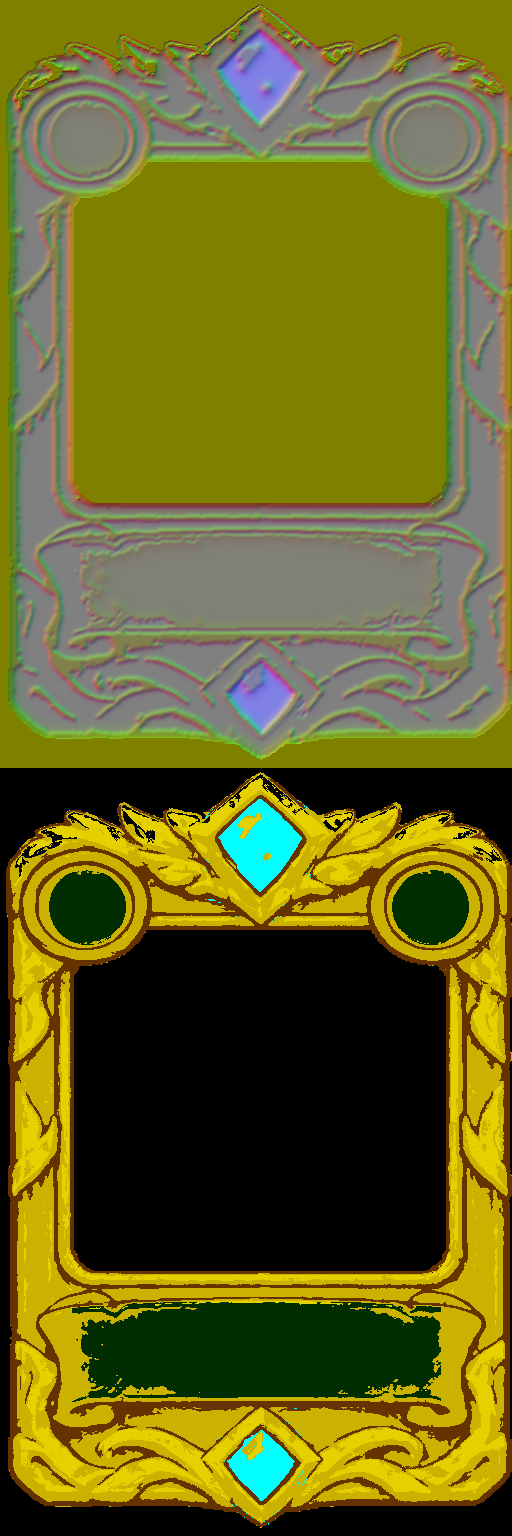
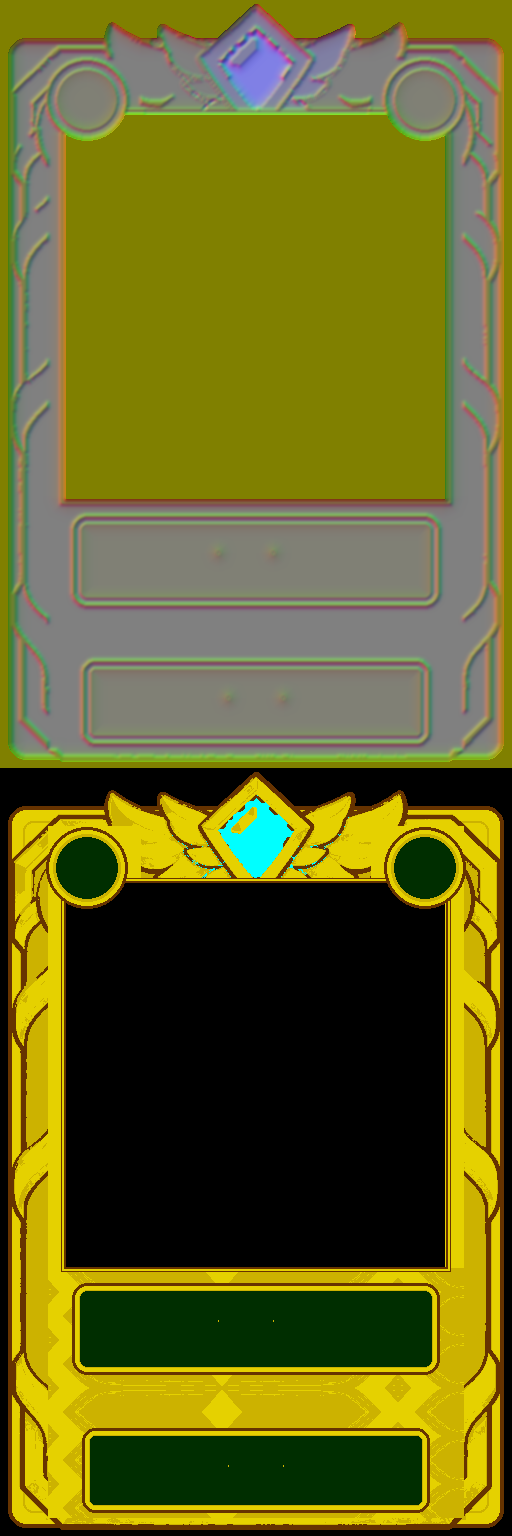
共通枠を組み込み凹凸マップと検証画像を更新する

diff --git a/js/ui/precache.js b/js/ui/precache.js
@@ -1,2 +1,2 @@
-self.CF_CACHE_VERSION="64f714ec397dd5cb";
-self.CF_ASSETS=["index.html","manifest.webmanifest","css/accessibility.css","css/battle.css","css/beast.css","css/card-base.css","css/card-zoom.css","css/chat.css","css/components.css","css/deck.css","css/experience.css","css/finishing-art.css","css/fit.css","css/help-guide.css","css/hologram.css","css/kingdom.css","css/layout.css","css/mana-growth.css","css/materials.css","css/motion.css","css/mp.css","css/polish.css","css/rarity-assets.css","css/rarity-fx.css","css/settings.css","css/step5.css","css/style.css","css/text-fit.css","css/theme.css","css/tokens.css","css/tutorial.css","css/weather.css","js/game/Card.js","js/game/Castle.js","js/game/Game.js","js/game/Monster.js","js/game/Player.js","js/game/Road.js","js/game/Setup.js","js/game/Soldier.js","js/game/Weather.js","js/game/strategies.js","js/game/visibility.js","js/main.js","js/ui/Accessibility.js","js/ui/Animations.js","js/ui/BattleLayout.js","js/ui/CardGuide.js","js/ui/CardInfo.js","js/ui/CardRelief.js","js/ui/CardZoom.js","js/ui/ChatView.js","js/ui/DebugPanel.js","js/ui/DeckEditor.js","js/ui/DeckPreview.js","js/ui/DeckStore.js","js/ui/HandView.js","js/ui/HelpView.js","js/ui/Hologram.js","js/ui/LocalSetup.js","js/ui/MatchStats.js","js/ui/MaterialSkin.js","js/ui/Music.js","js/ui/OnlineClient.js","js/ui/ProgressPanel.js","js/ui/Renderer.js","js/ui/RoomView.js","js/ui/Session.js","js/ui/Settings.js","js/ui/Sound.js","js/ui/Targeting.js","js/ui/Tutorial.js","js/ui/UpgradePanel.js","js/ui/WeatherView.js","js/ui/art.js","js/ui/cardFrame.js","js/ui/cardView.js","js/ui/config.js","js/ui/handOrder.js","js/ui/look.js","js/ui/motion.js","js/ui/pills.js","js/ui/rarity.js","js/ui/stories.js","js/ui/syncCheck.js","js/ui/text.js","data/cards.json","data/castles.json","data/decks.json","data/monsters.json","data/rarities.json","data/rules.json","data/stamps.json","data/upgrades.json","data/weather.json","assets/asset-manifest.json","assets/bg/board-meadow-compact.png","assets/bg/board-meadow.png","assets/bg/board.png","assets/bg/kingdom-meadow.png","assets/bg/kingdom-valley.png","assets/bg/title-compact.png","assets/bg/title.png","assets/cards/card-absolute-zero.png","assets/cards/card-adapt.png","assets/cards/card-apocalypse.png","assets/cards/card-apprentice-archer.png","assets/cards/card-apprentice-mage.png","assets/cards/card-archer.png","assets/cards/card-archmage.png","assets/cards/card-barrier.png","assets/cards/card-beast-bat.png","assets/cards/card-beast-demon-king.png","assets/cards/card-beast-demon.png","assets/cards/card-beast-dragon.png","assets/cards/card-beast-ghost.png","assets/cards/card-beast-goblin.png","assets/cards/card-beast-golem.png","assets/cards/card-beast-mimic.png","assets/cards/card-beast-skeleton.png","assets/cards/card-beast-slime.png","assets/cards/card-beast-treant.png","assets/cards/card-beast-vampire.png","assets/cards/card-big-shield.png","assets/cards/card-big-thunder.png","assets/cards/card-blessing.png","assets/cards/card-bolt.png","assets/cards/card-cavalry.png","assets/cards/card-coin-pouch.png","assets/cards/card-death-mist.png","assets/cards/card-decoy.png","assets/cards/card-deep-freeze.png","assets/cards/card-dragon-knight.png","assets/cards/card-earth-hammer.png","assets/cards/card-earth-king.png","assets/cards/card-earth-spirit.png","assets/cards/card-fire-king.png","assets/cards/card-fire-spirit.png","assets/cards/card-fireball.png","assets/cards/card-flame-sword.png","assets/cards/card-frost-breath.png","assets/cards/card-frozen-world.png","assets/cards/card-gate.png","assets/cards/card-giant.png","assets/cards/card-glacier.png","assets/cards/card-god-shield.png","assets/cards/card-god-sword.png","assets/cards/card-goddess.png","assets/cards/card-gold-coin.png","assets/cards/card-gold-vein.png","assets/cards/card-great-earth-spirit.png","assets/cards/card-great-fire-spirit.png","assets/cards/card-great-heal.png","assets/cards/card-great-water-spirit.png","assets/cards/card-great-wind-spirit.png","assets/cards/card-heal.png","assets/cards/card-heavy.png","assets/cards/card-hero.png","assets/cards/card-holy-light.png","assets/cards/card-holy-shield.png","assets/cards/card-holy-sword.png","assets/cards/card-infantry.png","assets/cards/card-inferno.png","assets/cards/card-iron-sword.png","assets/cards/card-judgment.png","assets/cards/card-king-treasure.png","assets/cards/card-knight.png","assets/cards/card-longbowman.png","assets/cards/card-mage.png","assets/cards/card-magic-sword.png","assets/cards/card-mana-crystal.png","assets/cards/card-mana-drop.png","assets/cards/card-mana-shard.png","assets/cards/card-mana-spring.png","assets/cards/card-meteor.png","assets/cards/card-minor-heal.png","assets/cards/card-paladin.png","assets/cards/card-plague.png","assets/cards/card-poison-mist.png","assets/cards/card-prayer.png","assets/cards/card-raijin.png","assets/cards/card-reflect.png","assets/cards/card-sage.png","assets/cards/card-sandbag.png","assets/cards/card-scout.png","assets/cards/card-shield.png","assets/cards/card-sky-archer.png","assets/cards/card-sniper.png","assets/cards/card-sorcerer.png","assets/cards/card-spearman.png","assets/cards/card-starfall.png","assets/cards/card-steel-shield.png","assets/cards/card-stone-wall.png","assets/cards/card-thief.png","assets/cards/card-thunder.png","assets/cards/card-toxic-rain.png","assets/cards/card-treasure.png","assets/cards/card-venom.png","assets/cards/card-wall.png","assets/cards/card-water-king.png","assets/cards/card-water-spear.png","assets/cards/card-water-spirit.png","assets/cards/card-weather-call.png","assets/cards/card-wind-bow.png","assets/cards/card-wind-king.png","assets/cards/card-wind-spirit.png","assets/cards/card-world-tree-dew.png","assets/cards/frame-beast.png","assets/cards/frame-common.png","assets/cards/frame-defense.png","assets/cards/frame-epic.png","assets/cards/frame-legendary.png","assets/cards/frame-rare.png","assets/cards/frame-soldier.png","assets/cards/frame-special.png","assets/cards/frame-spell.png","assets/cards/frame-uncommon.png","assets/cards/frame-weapon.png","assets/cards/relief/frame-beast-raised.png","assets/cards/relief/frame-beast-relief.png","assets/cards/relief/frame-common-raised.png","assets/cards/relief/frame-common-relief.png","assets/cards/relief/frame-defense-raised.png","assets/cards/relief/frame-defense-relief.png","assets/cards/relief/frame-epic-raised.png","assets/cards/relief/frame-epic-relief.png","assets/cards/relief/frame-legendary-raised.png","assets/cards/relief/frame-legendary-relief.png","assets/cards/relief/frame-rare-raised.png","assets/cards/relief/frame-rare-relief.png","assets/cards/relief/frame-soldier-raised.png","assets/cards/relief/frame-soldier-relief.png","assets/cards/relief/frame-special-raised.png","assets/cards/relief/frame-special-relief.png","assets/cards/relief/frame-spell-raised.png","assets/cards/relief/frame-spell-relief.png","assets/cards/relief/frame-uncommon-raised.png","assets/cards/relief/frame-uncommon-relief.png","assets/cards/relief/frame-weapon-raised.png","assets/cards/relief/frame-weapon-relief.png","assets/castles/barracks-blue-damaged-1.png","assets/castles/barracks-blue-damaged-2.png","assets/castles/barracks-blue-damaged-3.png","assets/castles/barracks-blue.png","assets/castles/barracks-orange-damaged-1.png","assets/castles/barracks-orange-damaged-2.png","assets/castles/barracks-orange-damaged-3.png","assets/castles/barracks-orange.png","assets/castles/castle-blue-damaged-1.png","assets/castles/castle-blue-damaged-2.png","assets/castles/castle-blue-damaged-3.png","assets/castles/castle-blue-ruined.png","assets/castles/castle-blue.png","assets/castles/castle-orange-damaged-1.png","assets/castles/castle-orange-damaged-2.png","assets/castles/castle-orange-damaged-3.png","assets/castles/castle-orange-ruined.png","assets/castles/castle-orange.png","assets/castles/fortress-blue-damaged-1.png","assets/castles/fortress-blue-damaged-2.png","assets/castles/fortress-blue-damaged-3.png","assets/castles/fortress-blue.png","assets/castles/fortress-orange-damaged-1.png","assets/castles/fortress-orange-damaged-2.png","assets/castles/fortress-orange-damaged-3.png","assets/castles/fortress-orange.png","assets/castles/tower-blue-damaged-1.png","assets/castles/tower-blue-damaged-2.png","assets/castles/tower-blue-damaged-3.png","assets/castles/tower-blue.png","assets/castles/tower-orange-damaged-1.png","assets/castles/tower-orange-damaged-2.png","assets/castles/tower-orange-damaged-3.png","assets/castles/tower-orange.png","assets/fx/dust.png","assets/fx/evolve-1.png","assets/fx/evolve-2.png","assets/fx/evolve-3.png","assets/fx/explosion.png","assets/fx/fireball.png","assets/fx/fusion.png","assets/fx/heal.png","assets/fx/ice.png","assets/fx/lightning.png","assets/fx/lucky-reward.png","assets/fx/poison.png","assets/ui/app-icon-192.png","assets/ui/app-icon-512.png","assets/ui/app-icon-maskable-512.png","assets/ui/apple-touch-icon.png","assets/ui/banner-win.png","assets/ui/btn-blue.png","assets/ui/btn-cream.png","assets/ui/btn-green.png","assets/ui/btn-orange.png","assets/ui/btn-red.png","assets/ui/btn-round.png","assets/ui/button-end-turn.png","assets/ui/card-back.png","assets/ui/icon-coin.png","assets/ui/icon-earth.png","assets/ui/icon-fire.png","assets/ui/icon-heart.png","assets/ui/icon-help.png","assets/ui/icon-kind-defense.png","assets/ui/icon-kind-soldier.png","assets/ui/icon-kind-spell.png","assets/ui/icon-kind-weapon.png","assets/ui/icon-kind-wild.png","assets/ui/icon-luck.png","assets/ui/icon-mode-local.png","assets/ui/icon-mode-online.png","assets/ui/icon-mode-solo.png","assets/ui/icon-mp.png","assets/ui/icon-rarity-common.png","assets/ui/icon-rarity-epic.png","assets/ui/icon-rarity-legendary.png","assets/ui/icon-rarity-rare.png","assets/ui/icon-rarity-special.png","assets/ui/icon-rarity-uncommon.png","assets/ui/icon-water.png","assets/ui/icon-wind.png","assets/ui/kingdom-crest.png","assets/ui/kingdom-parchment.png","assets/ui/kingdom-platform.png","assets/ui/kingdom-primary.png","assets/ui/kingdom-secondary.png","assets/ui/kingdom-wood.png","assets/ui/logo.png","assets/ui/natural/danger-40-left.png","assets/ui/natural/danger-40-middle.png","assets/ui/natural/danger-40-right.png","assets/ui/natural/danger-44-left.png","assets/ui/natural/danger-44-middle.png","assets/ui/natural/danger-44-right.png","assets/ui/natural/danger-72-left.png","assets/ui/natural/danger-72-middle.png","assets/ui/natural/danger-72-right.png","assets/ui/natural/frame.png","assets/ui/natural/leather-tile.png","assets/ui/natural/neutral-40-left.png","assets/ui/natural/neutral-40-middle.png","assets/ui/natural/neutral-40-right.png","assets/ui/natural/neutral-44-left.png","assets/ui/natural/neutral-44-middle.png","assets/ui/natural/neutral-44-right.png","assets/ui/natural/neutral-72-left.png","assets/ui/natural/neutral-72-middle.png","assets/ui/natural/neutral-72-right.png","assets/ui/natural/neutral-wide-full.png","assets/ui/natural/oak-tile.png","assets/ui/natural/paper-tile.png","assets/ui/natural/primary-40-left.png","assets/ui/natural/primary-40-middle.png","assets/ui/natural/primary-40-right.png","assets/ui/natural/primary-44-left.png","assets/ui/natural/primary-44-middle.png","assets/ui/natural/primary-44-right.png","assets/ui/natural/primary-72-left.png","assets/ui/natural/primary-72-middle.png","assets/ui/natural/primary-72-right.png","assets/ui/natural/primary-wide-full.png","assets/ui/natural/round-neutral.png","assets/ui/natural/round-selected.png","assets/ui/natural/selected-40-left.png","assets/ui/natural/selected-40-middle.png","assets/ui/natural/selected-40-right.png","assets/ui/natural/selected-44-left.png","assets/ui/natural/selected-44-middle.png","assets/ui/natural/selected-44-right.png","assets/ui/natural/selected-72-left.png","assets/ui/natural/selected-72-middle.png","assets/ui/natural/selected-72-right.png","assets/ui/panel-parchment.png","assets/ui/result-defeat.png","assets/ui/result-victory.png","assets/ui/sign-hp.png","assets/ui/stamps/again.png","assets/ui/stamps/gg.png","assets/ui/stamps/go.png","assets/ui/stamps/hello.png","assets/ui/stamps/nice.png","assets/ui/stamps/ouch.png","assets/ui/stamps/scared.png","assets/ui/stamps/smug.png","assets/ui/stamps/sorry.png","assets/ui/stamps/thanks.png","assets/ui/stamps/think.png","assets/ui/stamps/yay.png","assets/ui/tap-plate.png","assets/ui/title-castle-blue.png","assets/ui/title-castle-orange.png","assets/ui/title-infantry-orange.png","assets/ui/title-knight-blue.png","assets/ui/weather-coin-rain.png","assets/ui/weather-fog.png","assets/ui/weather-heavy-rain.png","assets/ui/weather-rain.png","assets/ui/weather-sandstorm.png","assets/ui/weather-storm.png","assets/ui/weather-sunny.png","assets/units/apprentice-archer-blue.png","assets/units/apprentice-archer-orange.png","assets/units/apprentice-mage-blue.png","assets/units/apprentice-mage-orange.png","assets/units/archer-blue.png","assets/units/archer-orange.png","assets/units/archmage-blue.png","assets/units/archmage-orange.png","assets/units/cavalry-blue.png","assets/units/cavalry-orange.png","assets/units/dragon-knight-blue.png","assets/units/dragon-knight-orange.png","assets/units/earth-spirit.png","assets/units/fire-spirit.png","assets/units/giant-blue.png","assets/units/giant-orange.png","assets/units/great-earth-spirit.png","assets/units/great-fire-spirit.png","assets/units/great-water-spirit.png","assets/units/great-wind-spirit.png","assets/units/heavy-blue.png","assets/units/heavy-orange.png","assets/units/hero-blue.png","assets/units/hero-orange.png","assets/units/infantry-blue.png","assets/units/infantry-orange.png","assets/units/knight-blue.png","assets/units/knight-orange.png","assets/units/longbowman-blue.png","assets/units/longbowman-orange.png","assets/units/mage-blue.png","assets/units/mage-orange.png","assets/units/monster-bat.png","assets/units/monster-demon-king.png","assets/units/monster-demon.png","assets/units/monster-dragon.png","assets/units/monster-ghost.png","assets/units/monster-goblin.png","assets/units/monster-golem.png","assets/units/monster-mimic.png","assets/units/monster-skeleton.png","assets/units/monster-slime.png","assets/units/monster-treant.png","assets/units/monster-vampire.png","assets/units/paladin-blue.png","assets/units/paladin-orange.png","assets/units/sage-blue.png","assets/units/sage-orange.png","assets/units/scout-blue.png","assets/units/scout-orange.png","assets/units/sky-archer-blue.png","assets/units/sky-archer-orange.png","assets/units/sniper-blue.png","assets/units/sniper-orange.png","assets/units/sorcerer-blue.png","assets/units/sorcerer-orange.png","assets/units/spearman-blue.png","assets/units/spearman-orange.png","assets/units/water-spirit.png","assets/units/wind-spirit.png"];
+self.CF_CACHE_VERSION="638c4e12b4f41cc6";
+self.CF_ASSETS=["index.html","manifest.webmanifest","css/accessibility.css","css/battle.css","css/beast.css","css/card-base.css","css/card-zoom.css","css/chat.css","css/components.css","css/deck.css","css/experience.css","css/finishing-art.css","css/fit.css","css/help-guide.css","css/hologram.css","css/kingdom.css","css/layout.css","css/mana-growth.css","css/materials.css","css/motion.css","css/mp.css","css/polish.css","css/rarity-assets.css","css/rarity-fx.css","css/settings.css","css/step5.css","css/style.css","css/text-fit.css","css/theme.css","css/tokens.css","css/tutorial.css","css/weather.css","js/game/Card.js","js/game/Castle.js","js/game/Game.js","js/game/Monster.js","js/game/Player.js","js/game/Road.js","js/game/Setup.js","js/game/Soldier.js","js/game/Weather.js","js/game/strategies.js","js/game/visibility.js","js/main.js","js/ui/Accessibility.js","js/ui/Animations.js","js/ui/BattleLayout.js","js/ui/CardGuide.js","js/ui/CardInfo.js","js/ui/CardRelief.js","js/ui/CardZoom.js","js/ui/ChatView.js","js/ui/DebugPanel.js","js/ui/DeckEditor.js","js/ui/DeckPreview.js","js/ui/DeckStore.js","js/ui/HandView.js","js/ui/HelpView.js","js/ui/Hologram.js","js/ui/LocalSetup.js","js/ui/MatchStats.js","js/ui/MaterialSkin.js","js/ui/Music.js","js/ui/OnlineClient.js","js/ui/ProgressPanel.js","js/ui/Renderer.js","js/ui/RoomView.js","js/ui/Session.js","js/ui/Settings.js","js/ui/Sound.js","js/ui/Targeting.js","js/ui/Tutorial.js","js/ui/UpgradePanel.js","js/ui/WeatherView.js","js/ui/art.js","js/ui/cardFrame.js","js/ui/cardView.js","js/ui/config.js","js/ui/handOrder.js","js/ui/look.js","js/ui/motion.js","js/ui/pills.js","js/ui/rarity.js","js/ui/stories.js","js/ui/syncCheck.js","js/ui/text.js","data/cards.json","data/castles.json","data/decks.json","data/monsters.json","data/rarities.json","data/rules.json","data/stamps.json","data/upgrades.json","data/weather.json","assets/asset-manifest.json","assets/bg/board-meadow-compact.png","assets/bg/board-meadow.png","assets/bg/board.png","assets/bg/kingdom-meadow.png","assets/bg/kingdom-valley.png","assets/bg/title-compact.png","assets/bg/title.png","assets/cards/card-absolute-zero.png","assets/cards/card-adapt.png","assets/cards/card-apocalypse.png","assets/cards/card-apprentice-archer.png","assets/cards/card-apprentice-mage.png","assets/cards/card-archer.png","assets/cards/card-archmage.png","assets/cards/card-barrier.png","assets/cards/card-beast-bat.png","assets/cards/card-beast-demon-king.png","assets/cards/card-beast-demon.png","assets/cards/card-beast-dragon.png","assets/cards/card-beast-ghost.png","assets/cards/card-beast-goblin.png","assets/cards/card-beast-golem.png","assets/cards/card-beast-mimic.png","assets/cards/card-beast-skeleton.png","assets/cards/card-beast-slime.png","assets/cards/card-beast-treant.png","assets/cards/card-beast-vampire.png","assets/cards/card-big-shield.png","assets/cards/card-big-thunder.png","assets/cards/card-blessing.png","assets/cards/card-bolt.png","assets/cards/card-cavalry.png","assets/cards/card-coin-pouch.png","assets/cards/card-death-mist.png","assets/cards/card-decoy.png","assets/cards/card-deep-freeze.png","assets/cards/card-dragon-knight.png","assets/cards/card-earth-hammer.png","assets/cards/card-earth-king.png","assets/cards/card-earth-spirit.png","assets/cards/card-fire-king.png","assets/cards/card-fire-spirit.png","assets/cards/card-fireball.png","assets/cards/card-flame-sword.png","assets/cards/card-frost-breath.png","assets/cards/card-frozen-world.png","assets/cards/card-gate.png","assets/cards/card-giant.png","assets/cards/card-glacier.png","assets/cards/card-god-shield.png","assets/cards/card-god-sword.png","assets/cards/card-goddess.png","assets/cards/card-gold-coin.png","assets/cards/card-gold-vein.png","assets/cards/card-great-earth-spirit.png","assets/cards/card-great-fire-spirit.png","assets/cards/card-great-heal.png","assets/cards/card-great-water-spirit.png","assets/cards/card-great-wind-spirit.png","assets/cards/card-heal.png","assets/cards/card-heavy.png","assets/cards/card-hero.png","assets/cards/card-holy-light.png","assets/cards/card-holy-shield.png","assets/cards/card-holy-sword.png","assets/cards/card-infantry.png","assets/cards/card-inferno.png","assets/cards/card-iron-sword.png","assets/cards/card-judgment.png","assets/cards/card-king-treasure.png","assets/cards/card-knight.png","assets/cards/card-longbowman.png","assets/cards/card-mage.png","assets/cards/card-magic-sword.png","assets/cards/card-mana-crystal.png","assets/cards/card-mana-drop.png","assets/cards/card-mana-shard.png","assets/cards/card-mana-spring.png","assets/cards/card-meteor.png","assets/cards/card-minor-heal.png","assets/cards/card-paladin.png","assets/cards/card-plague.png","assets/cards/card-poison-mist.png","assets/cards/card-prayer.png","assets/cards/card-raijin.png","assets/cards/card-reflect.png","assets/cards/card-sage.png","assets/cards/card-sandbag.png","assets/cards/card-scout.png","assets/cards/card-shield.png","assets/cards/card-sky-archer.png","assets/cards/card-sniper.png","assets/cards/card-sorcerer.png","assets/cards/card-spearman.png","assets/cards/card-starfall.png","assets/cards/card-steel-shield.png","assets/cards/card-stone-wall.png","assets/cards/card-thief.png","assets/cards/card-thunder.png","assets/cards/card-toxic-rain.png","assets/cards/card-treasure.png","assets/cards/card-venom.png","assets/cards/card-wall.png","assets/cards/card-water-king.png","assets/cards/card-water-spear.png","assets/cards/card-water-spirit.png","assets/cards/card-weather-call.png","assets/cards/card-wind-bow.png","assets/cards/card-wind-king.png","assets/cards/card-wind-spirit.png","assets/cards/card-world-tree-dew.png","assets/cards/frame-beast.png","assets/cards/frame-common.png","assets/cards/frame-defense.png","assets/cards/frame-epic.png","assets/cards/frame-legendary.png","assets/cards/frame-rare.png","assets/cards/frame-soldier.png","assets/cards/frame-special.png","assets/cards/frame-spell.png","assets/cards/frame-uncommon.png","assets/cards/frame-weapon.png","assets/cards/relief/frame-beast-raised.png","assets/cards/relief/frame-beast-relief.png","assets/cards/relief/frame-common-raised.png","assets/cards/relief/frame-common-relief.png","assets/cards/relief/frame-defense-raised.png","assets/cards/relief/frame-defense-relief.png","assets/cards/relief/frame-epic-raised.png","assets/cards/relief/frame-epic-relief.png","assets/cards/relief/frame-legendary-raised.png","assets/cards/relief/frame-legendary-relief.png","assets/cards/relief/frame-rare-raised.png","assets/cards/relief/frame-rare-relief.png","assets/cards/relief/frame-soldier-raised.png","assets/cards/relief/frame-soldier-relief.png","assets/cards/relief/frame-special-raised.png","assets/cards/relief/frame-special-relief.png","assets/cards/relief/frame-spell-raised.png","assets/cards/relief/frame-spell-relief.png","assets/cards/relief/frame-uncommon-raised.png","assets/cards/relief/frame-uncommon-relief.png","assets/cards/relief/frame-weapon-raised.png","assets/cards/relief/frame-weapon-relief.png","assets/cards/window-beast.png","assets/cards/window-common.png","assets/cards/window-epic.png","assets/cards/window-legendary.png","assets/cards/window-rare.png","assets/cards/window-special.png","assets/cards/window-uncommon.png","assets/castles/barracks-blue-damaged-1.png","assets/castles/barracks-blue-damaged-2.png","assets/castles/barracks-blue-damaged-3.png","assets/castles/barracks-blue.png","assets/castles/barracks-orange-damaged-1.png","assets/castles/barracks-orange-damaged-2.png","assets/castles/barracks-orange-damaged-3.png","assets/castles/barracks-orange.png","assets/castles/castle-blue-damaged-1.png","assets/castles/castle-blue-damaged-2.png","assets/castles/castle-blue-damaged-3.png","assets/castles/castle-blue-ruined.png","assets/castles/castle-blue.png","assets/castles/castle-orange-damaged-1.png","assets/castles/castle-orange-damaged-2.png","assets/castles/castle-orange-damaged-3.png","assets/castles/castle-orange-ruined.png","assets/castles/castle-orange.png","assets/castles/fortress-blue-damaged-1.png","assets/castles/fortress-blue-damaged-2.png","assets/castles/fortress-blue-damaged-3.png","assets/castles/fortress-blue.png","assets/castles/fortress-orange-damaged-1.png","assets/castles/fortress-orange-damaged-2.png","assets/castles/fortress-orange-damaged-3.png","assets/castles/fortress-orange.png","assets/castles/tower-blue-damaged-1.png","assets/castles/tower-blue-damaged-2.png","assets/castles/tower-blue-damaged-3.png","assets/castles/tower-blue.png","assets/castles/tower-orange-damaged-1.png","assets/castles/tower-orange-damaged-2.png","assets/castles/tower-orange-damaged-3.png","assets/castles/tower-orange.png","assets/fx/dust.png","assets/fx/evolve-1.png","assets/fx/evolve-2.png","assets/fx/evolve-3.png","assets/fx/explosion.png","assets/fx/fireball.png","assets/fx/fusion.png","assets/fx/heal.png","assets/fx/ice.png","assets/fx/lightning.png","assets/fx/lucky-reward.png","assets/fx/poison.png","assets/ui/app-icon-192.png","assets/ui/app-icon-512.png","assets/ui/app-icon-maskable-512.png","assets/ui/apple-touch-icon.png","assets/ui/banner-win.png","assets/ui/btn-blue.png","assets/ui/btn-cream.png","assets/ui/btn-green.png","assets/ui/btn-orange.png","assets/ui/btn-red.png","assets/ui/btn-round.png","assets/ui/button-end-turn.png","assets/ui/card-back.png","assets/ui/icon-coin.png","assets/ui/icon-earth.png","assets/ui/icon-fire.png","assets/ui/icon-heart.png","assets/ui/icon-help.png","assets/ui/icon-kind-defense.png","assets/ui/icon-kind-soldier.png","assets/ui/icon-kind-spell.png","assets/ui/icon-kind-weapon.png","assets/ui/icon-kind-wild.png","assets/ui/icon-luck.png","assets/ui/icon-mode-local.png","assets/ui/icon-mode-online.png","assets/ui/icon-mode-solo.png","assets/ui/icon-mp.png","assets/ui/icon-rarity-common.png","assets/ui/icon-rarity-epic.png","assets/ui/icon-rarity-legendary.png","assets/ui/icon-rarity-rare.png","assets/ui/icon-rarity-special.png","assets/ui/icon-rarity-uncommon.png","assets/ui/icon-water.png","assets/ui/icon-wind.png","assets/ui/kingdom-crest.png","assets/ui/kingdom-parchment.png","assets/ui/kingdom-platform.png","assets/ui/kingdom-primary.png","assets/ui/kingdom-secondary.png","assets/ui/kingdom-wood.png","assets/ui/logo.png","assets/ui/natural/danger-40-left.png","assets/ui/natural/danger-40-middle.png","assets/ui/natural/danger-40-right.png","assets/ui/natural/danger-44-left.png","assets/ui/natural/danger-44-middle.png","assets/ui/natural/danger-44-right.png","assets/ui/natural/danger-72-left.png","assets/ui/natural/danger-72-middle.png","assets/ui/natural/danger-72-right.png","assets/ui/natural/frame.png","assets/ui/natural/leather-tile.png","assets/ui/natural/neutral-40-left.png","assets/ui/natural/neutral-40-middle.png","assets/ui/natural/neutral-40-right.png","assets/ui/natural/neutral-44-left.png","assets/ui/natural/neutral-44-middle.png","assets/ui/natural/neutral-44-right.png","assets/ui/natural/neutral-72-left.png","assets/ui/natural/neutral-72-middle.png","assets/ui/natural/neutral-72-right.png","assets/ui/natural/neutral-wide-full.png","assets/ui/natural/oak-tile.png","assets/ui/natural/paper-tile.png","assets/ui/natural/primary-40-left.png","assets/ui/natural/primary-40-middle.png","assets/ui/natural/primary-40-right.png","assets/ui/natural/primary-44-left.png","assets/ui/natural/primary-44-middle.png","assets/ui/natural/primary-44-right.png","assets/ui/natural/primary-72-left.png","assets/ui/natural/primary-72-middle.png","assets/ui/natural/primary-72-right.png","assets/ui/natural/primary-wide-full.png","assets/ui/natural/round-neutral.png","assets/ui/natural/round-selected.png","assets/ui/natural/selected-40-left.png","assets/ui/natural/selected-40-middle.png","assets/ui/natural/selected-40-right.png","assets/ui/natural/selected-44-left.png","assets/ui/natural/selected-44-middle.png","assets/ui/natural/selected-44-right.png","assets/ui/natural/selected-72-left.png","assets/ui/natural/selected-72-middle.png","assets/ui/natural/selected-72-right.png","assets/ui/panel-parchment.png","assets/ui/result-defeat.png","assets/ui/result-victory.png","assets/ui/sign-hp.png","assets/ui/stamps/again.png","assets/ui/stamps/gg.png","assets/ui/stamps/go.png","assets/ui/stamps/hello.png","assets/ui/stamps/nice.png","assets/ui/stamps/ouch.png","assets/ui/stamps/scared.png","assets/ui/stamps/smug.png","assets/ui/stamps/sorry.png","assets/ui/stamps/thanks.png","assets/ui/stamps/think.png","assets/ui/stamps/yay.png","assets/ui/tap-plate.png","assets/ui/title-castle-blue.png","assets/ui/title-castle-orange.png","assets/ui/title-infantry-orange.png","assets/ui/title-knight-blue.png","assets/ui/weather-coin-rain.png","assets/ui/weather-fog.png","assets/ui/weather-heavy-rain.png","assets/ui/weather-rain.png","assets/ui/weather-sandstorm.png","assets/ui/weather-storm.png","assets/ui/weather-sunny.png","assets/units/apprentice-archer-blue.png","assets/units/apprentice-archer-orange.png","assets/units/apprentice-mage-blue.png","assets/units/apprentice-mage-orange.png","assets/units/archer-blue.png","assets/units/archer-orange.png","assets/units/archmage-blue.png","assets/units/archmage-orange.png","assets/units/cavalry-blue.png","assets/units/cavalry-orange.png","assets/units/dragon-knight-blue.png","assets/units/dragon-knight-orange.png","assets/units/earth-spirit.png","assets/units/fire-spirit.png","assets/units/giant-blue.png","assets/units/giant-orange.png","assets/units/great-earth-spirit.png","assets/units/great-fire-spirit.png","assets/units/great-water-spirit.png","assets/units/great-wind-spirit.png","assets/units/heavy-blue.png","assets/units/heavy-orange.png","assets/units/hero-blue.png","assets/units/hero-orange.png","assets/units/infantry-blue.png","assets/units/infantry-orange.png","assets/units/knight-blue.png","assets/units/knight-orange.png","assets/units/longbowman-blue.png","assets/units/longbowman-orange.png","assets/units/mage-blue.png","assets/units/mage-orange.png","assets/units/monster-bat.png","assets/units/monster-demon-king.png","assets/units/monster-demon.png","assets/units/monster-dragon.png","assets/units/monster-ghost.png","assets/units/monster-goblin.png","assets/units/monster-golem.png","assets/units/monster-mimic.png","assets/units/monster-skeleton.png","assets/units/monster-slime.png","assets/units/monster-treant.png","assets/units/monster-vampire.png","assets/units/paladin-blue.png","assets/units/paladin-orange.png","assets/units/sage-blue.png","assets/units/sage-orange.png","assets/units/scout-blue.png","assets/units/scout-orange.png","assets/units/sky-archer-blue.png","assets/units/sky-archer-orange.png","assets/units/sniper-blue.png","assets/units/sniper-orange.png","assets/units/sorcerer-blue.png","assets/units/sorcerer-orange.png","assets/units/spearman-blue.png","assets/units/spearman-orange.png","assets/units/water-spirit.png","assets/units/wind-spirit.png"];

diff --git a/js/ui/build-card-relief.js b/js/ui/build-card-relief.js
@@ -25,18 +25,23 @@ const OUT = join(root, 'assets/cards/relief');
 // gemHue：宝石の色相（度）。raised：手前に浮かせる部品のある範囲（輪郭線で区切られた部品のうち、ほとんどがこの中にあるもの）。
 // paper：名前の帯・メダルの中（羊皮紙）。'name' と 'medals' は CSS の --name-y / --med-* と同じ位置。
 const KIND_GEMS = [[66, 556, 154, 652], [358, 556, 446, 652]];
+const SHARED_PARCHMENT = {
+  name: [.14, .86, .73],
+  stats: [.16, .84, .86, .97],
+  medals: [[.17, .13], [.83, .13]],
+};
 const FRAMES = {
-  common:    { base: { metal: 0, smooth: .22 }, silver: { metal: .8, smooth: .55 }, gemHue: null, raised: [[218, 4, 298, 82], [218, 648, 298, 752]], paper: { name: [.14, .86, .74], medals: [[.19, .14], [.84, .14]] } },
-  uncommon:  { base: { metal: .05, smooth: .3 }, gold: { metal: .65, smooth: .6 }, organic: [70, 170], gemHue: [80, 170], raised: [[208, 4, 304, 124], [208, 636, 304, 752]], paper: { name: [.14, .86, .75], medals: [[.16, .16], [.83, .16]] } },
-  rare:      { base: { metal: .8, smooth: .7 }, silver: { metal: .9, smooth: .82 }, gemHue: [180, 240], raised: [[206, 2, 310, 152], [214, 632, 306, 756]], paper: { name: [.14, .86, .76], medals: [[.17, .18], [.84, .18]] } },
-  epic:      { base: { metal: .65, smooth: .78 }, silver: { metal: .9, smooth: .86 }, gold: { metal: .9, smooth: .86 }, gemHue: [255, 310], raised: [[204, 8, 306, 182], [206, 636, 306, 756]], paper: { name: [.14, .86, .75], medals: [[.15, .21], [.84, .21]] } },
-  legendary: { base: { metal: .15, smooth: .35 }, gold: { metal: 1, smooth: .92 }, cloth: [330, 25], gemHue: [330, 25], raised: [[160, 4, 360, 150], [196, 640, 316, 752]], paper: { name: [.14, .86, .76], medals: [[.17, .23], [.82, .23]] } },
-  special:   { base: { metal: .55, smooth: .9 }, silver: { metal: .7, smooth: .92 }, gemHue: [190, 340], gemMinSat: .18, raised: [[196, 4, 316, 140], [200, 630, 312, 748]], paper: { name: [.14, .86, .76], medals: [[.17, .18], [.84, .18]] } },
+  common:    { base: { metal: 0, smooth: .22 }, silver: { metal: .8, smooth: .55 }, gemHue: null, raised: [[190, 4, 322, 77], [0, 0, 86, 96], [426, 0, 512, 96]], paper: SHARED_PARCHMENT },
+  uncommon:  { base: { metal: .05, smooth: .3 }, gold: { metal: .65, smooth: .6 }, organic: [70, 170], gemHue: [80, 170], raised: [[145, 0, 367, 111]], paper: SHARED_PARCHMENT },
+  rare:      { base: { metal: .8, smooth: .7 }, silver: { metal: .9, smooth: .82 }, gemHue: [180, 240], raised: [[145, 0, 367, 114]], paper: SHARED_PARCHMENT },
+  epic:      { base: { metal: .65, smooth: .78 }, silver: { metal: .9, smooth: .86 }, gold: { metal: .9, smooth: .86 }, gemHue: [255, 310], raised: [[140, 0, 372, 114]], paper: SHARED_PARCHMENT },
+  legendary: { base: { metal: .15, smooth: .35 }, gold: { metal: 1, smooth: .92 }, cloth: [330, 25], gemHue: [330, 25], raised: [[144, 0, 368, 114]], paper: SHARED_PARCHMENT },
+  special:   { base: { metal: .55, smooth: .9 }, silver: { metal: .7, smooth: .92 }, gemHue: [190, 340], gemMinSat: .18, raised: [[145, 0, 367, 114]], paper: SHARED_PARCHMENT },
   soldier:   { base: { metal: 0, smooth: .25 }, silver: { metal: .85, smooth: .75 }, gold: { metal: .9, smooth: .8 }, gemHue: [195, 250], raised: [[180, 0, 372, 186], ...KIND_GEMS], paper: { name: [.14, .86, .78], medals: [] } },
   spell:     { base: { metal: .1, smooth: .45 }, gold: { metal: .9, smooth: .8 }, gemHue: [255, 300], raised: [[192, 12, 352, 194], ...KIND_GEMS], paper: { name: [.14, .86, .78], medals: [] } },
   weapon:    { base: { metal: .55, smooth: .6 }, gold: { metal: .9, smooth: .82 }, silver: { metal: .9, smooth: .85 }, gemHue: [340, 15], raised: [[164, 28, 362, 204], ...KIND_GEMS], paper: { name: [.14, .86, .78], medals: [] } },
   defense:   { base: { metal: .75, smooth: .72 }, gold: { metal: .9, smooth: .82 }, silver: { metal: .85, smooth: .8 }, gemHue: [195, 250], raised: [[184, 24, 334, 206], ...KIND_GEMS], paper: { name: [.14, .86, .78], medals: [] } },
-  beast:     { base: { metal: 0, smooth: .25 }, gold: { metal: .85, smooth: .78 }, silver: { metal: .8, smooth: .7 }, organic: [70, 140], gemHue: [120, 170], gemMinSat: .5, raised: [[208, 0, 312, 88], [216, 690, 300, 766]], paper: 'global' },
+  beast:     { base: { metal: 0, smooth: .25 }, gold: { metal: .85, smooth: .78 }, silver: { metal: .8, smooth: .7 }, organic: [70, 140], gemHue: [120, 170], gemMinSat: .5, raised: [[159, 0, 353, 114]], paper: SHARED_PARCHMENT },
 };
 
 // ---------- PNG（8bit・インターレースなし） ----------
@@ -204,10 +209,11 @@ export function buildRelief(png, cfg) {
   }
   // 名前の帯・メダル（羊皮紙）
   const inPaper = (x, y) => {
-    if (cfg.paper === 'global') return true;
     const u = x / W, v = y / H;
     const [l, r, ny] = cfg.paper.name;
     if (u >= l && u <= r && Math.abs(v - ny) <= .065) return true;
+    const stats = cfg.paper.stats;
+    if (stats && u >= stats[0] && u <= stats[1] && v >= stats[2] && v <= stats[3]) return true;
     return cfg.paper.medals.some(([mx, my]) => Math.hypot((u - mx) * W, (v - my) * H) <= .075 * W);
   };
   // 手前に浮かせる部品：輪郭線で区切った部品のうち、85% 以上が範囲の中にあるもの

diff --git a/css/rarity-assets.css b/css/rarity-assets.css
@@ -111,14 +111,41 @@
   filter: brightness(.88);
 }
 
-/* ---- 枠ごとに、絵の窓・左右の丸・名前の帯の位置を合わせる（枠の絵ごとに少しずつ違うため） ---- */
+/* 7種類の画像は同じ512×768の座標を使う。種類別の旧枠には従来の配置を残す。 */
 .card.has-frame, .mini-card { --win-l: 16%; --win-t: 17%; --win-w: 71%; --win-h: 46%; --med-y: 14%; --med-l: 19%; --med-r: 84%; --name-y: 74%; }
-.card.has-frame[data-rarity=uncommon], .mini-card[data-rarity=uncommon] { --win-l: 13%; --win-t: 20%; --win-w: 72%; --win-h: 45%; --med-y: 16%; --med-l: 16%; --med-r: 83%; --name-y: 75%; }
-.card.has-frame[data-rarity=rare], .mini-card[data-rarity=rare] { --win-l: 15%; --win-t: 21%; --win-w: 72%; --win-h: 44%; --med-y: 18%; --med-l: 17%; --med-r: 84%; --name-y: 76%; }
-/* 専用スペシャル枠：レアと同じ窓・丸・帯の配置。 */
-.card.has-frame[data-rarity=special], .mini-card[data-rarity=special] { --win-l: 15%; --win-t: 21%; --win-w: 72%; --win-h: 44%; --med-y: 18%; --med-l: 17%; --med-r: 84%; --name-y: 76%; }
-.card.has-frame[data-rarity=epic], .mini-card[data-rarity=epic] { --win-l: 14%; --win-t: 24%; --win-w: 72%; --win-h: 42%; --med-y: 21%; --med-l: 15%; --med-r: 84%; --name-y: 75%; }
-.card.has-frame[data-rarity=legendary], .mini-card[data-rarity=legendary] { --win-l: 16%; --win-t: 26%; --win-w: 67%; --win-h: 40%; --med-y: 23%; --med-l: 17%; --med-r: 82%; --name-y: 76%; }
+#app :is(.card.has-frame, .mini-card):is([data-rarity], [data-beast]) {
+  --fy: 0%; --fh: 1; --fx: 50%; --bw: .6667;
+  --win-l: 13%; --win-t: 15%; --win-w: 74%; --win-h: 50%;
+  --med-l: 17%; --med-r: 83%; --med-y: 13%; --name-y: 73%;
+}
+:is(.card.has-frame, .mini-card)[data-rarity=common] { --card-window: url('../assets/cards/window-common.png'); }
+:is(.card.has-frame, .mini-card)[data-rarity=uncommon] { --card-window: url('../assets/cards/window-uncommon.png'); }
+:is(.card.has-frame, .mini-card)[data-rarity=rare] { --card-window: url('../assets/cards/window-rare.png'); }
+:is(.card.has-frame, .mini-card)[data-rarity=epic] { --card-window: url('../assets/cards/window-epic.png'); }
+:is(.card.has-frame, .mini-card)[data-rarity=legendary] { --card-window: url('../assets/cards/window-legendary.png'); }
+:is(.card.has-frame, .mini-card)[data-rarity=special] { --card-window: url('../assets/cards/window-special.png'); }
+
+#app :is(.card.has-frame, .mini-card):is([data-rarity], [data-beast]) > :is(.card-art, .mini-card-image) {
+  left: var(--win-l); top: var(--win-t);
+  width: var(--win-w); height: var(--win-h);
+  border-radius: 0;
+  background: var(--card-window, none) center / cover no-repeat #fff1d3;
+}
+#app :is(.card.has-frame, .mini-card):is([data-rarity], [data-beast]) > :is(.card-kind, .card-rarity, .mini-card-kind, .mini-card-rarity) {
+  top: calc(var(--med-y) - 5.3333%);
+  height: 10.6667%;
+}
+#app .card.has-frame:is([data-rarity], [data-beast]) > .card-short {
+  inset: 86% 16% auto;
+  height: 11%;
+  align-items: center;
+  justify-content: center;
+  padding: 0 2px;
+  background: transparent;
+  box-shadow: none;
+  color: #513820;
+}
+
 .card.has-frame .card-art, .card.has-frame.spell .card-art, .card.has-frame.weapon .card-art, .card.has-frame.defense .card-art, .mini-card-image {
   left: calc(var(--win-l) - 1%); top: calc(var(--win-t) - 1%); width: calc(var(--win-w) + 2%); height: calc(var(--win-h) + 2%); inset: auto;
   left: calc(var(--win-l) - 1%); top: calc(var(--win-t) - 1%);
@@ -130,6 +157,37 @@
 .card.has-frame .card-kind, .mini-card-kind { left: calc(var(--med-l) - 8%); }
 .card.has-frame .card-rarity, .mini-card-rarity { right: auto; left: calc(var(--med-r) - 8%); }
 .card.has-frame .card-name, .card.has-frame .card-name.long, .mini-card-name { top: calc(var(--name-y) - 6%); height: 12%; left: 14%; right: 14%; }
+@media (max-width: 420px) {
+  #app #hand .card.has-frame:is([data-rarity], [data-beast]) .card-name.long {
+    font-size: 7px;
+    line-height: 1;
+    white-space: normal;
+    overflow-wrap: anywhere;
+  }
+
+  #app #hand .card.has-frame:is([data-rarity], [data-beast]) .card-short {
+    font-size: 8px;
+    padding-inline: 1px;
+  }
+
+  #app #hand .card.has-frame:is([data-rarity], [data-beast]) .card-short :is(.ic, .asset-art) {
+    width: 8px;
+    height: 8px;
+  }
+
+  #app #hand .card.has-frame:is([data-rarity], [data-beast]) .card-short .card-mp {
+    font-size: inherit;
+    margin-left: 1px;
+  }
+}
+
+@media (max-width: 420px) and (max-height: 700px) {
+  #app #hand .card.has-frame:is([data-rarity], [data-beast]) .card-short :is(.ic, .asset-art) {
+    width: 7px;
+    height: 7px;
+  }
+}
+
 /* 数値（攻撃・HPなど）は、枠の下の飾りに埋もれないよう、小さな札にのせる */
 .card.has-frame .card-short { bottom: 1%; left: 16%; right: 16%; padding: 1px 2px; border-radius: 7px; background: #fff7e4ee; box-shadow: 0 1px 2px #4a2e1a44; justify-content: center; }
 /* 出せないカードも、レアリティの色が分かる程度に暗くする（真っ灰色にしない） */

diff --git a/css/beast.css b/css/beast.css
@@ -1,11 +1,10 @@
 /* 魔物の駒には、レアリティを示す印と翡翠の専用枠を併用する。 */
-.card.has-frame[data-beast], .mini-card[data-beast] {
-  --fy: 1%; --fh: .98; --fx: 50%; --bw: .667;
-  --win-l: 12%; --win-t: 20%; --win-w: 76%; --win-h: 46%;
-  --med-y: 10.5%; --med-l: 10.5%; --med-r: 89.5%; --name-y: 80%;
+:is(.card.has-frame, .mini-card)[data-beast] {
+  --card-window: url('../assets/cards/window-beast.png');
 }
-#app .card.has-frame[data-beast] .card-art, #app .mini-card[data-beast] .mini-card-image { z-index: 2; }
-#app .mini-card[data-beast] .mini-card-image { z-index: 3; }
+/* 共通のメダル台に、種類と取得元のレアリティを表示する。 */
+#app .card.has-frame[data-beast][data-rarity] > :is(.card-kind, .card-rarity) { display: flex; }
+#app .mini-card[data-beast][data-rarity] > :is(.mini-card-kind, .mini-card-rarity) { display: grid; }
 #app [data-beast] :is(.card-art, .mini-card-image) .asset-image { padding: 0; }
 #app .mini-card[data-beast] .mini-card-name:not(:empty) { font-size: clamp(7px, 1.35vw, 10px); }
 .soldier[data-beast] .soldier-pic { filter: drop-shadow(0 2px 3px #144a2680); }

diff --git a/css/rarity-fx.css b/css/rarity-fx.css
@@ -9,7 +9,6 @@
 .detail-close { justify-self: end; margin: 0; }.detail-use { grid-column: 2; align-self: end; }
 .card[data-rarity=epic] { box-shadow: 0 0 0 1px var(--rarity), 0 4px 14px #9b59d026; }
 .card[data-rarity=legendary] { background: linear-gradient(135deg, #fff3ce, #fffaf0, #f9df91); box-shadow: 0 0 0 2px var(--rarity), 0 0 14px #f0a02066; }
-.card[data-rarity=legendary] .card-art { background: radial-gradient(ellipse, #ffe89e, #fff7df); }
 .guide-screen { z-index: 86; }
 .guide-box { width: min(900px, 100%); max-height: 96%; height: 88%; display: flex; flex-direction: column; min-height: 0; padding: 18px; }
 .guide-tabs, .shop-tabs { display: flex; gap: 6px; flex: none; padding: 14px 0; overflow-x: auto; scrollbar-width: thin; }

diff --git a/assets/review/frame-v2/README.md b/assets/review/frame-v2/README.md
@@ -1,0 +1,16 @@
+# レアリティ枠 v2 の確認
+
+コモン、アンコモン、レア、エピック、レジェンド、スペシャル、魔物の順。7種の枠を512×768のRGBA PNG、窓背景を512×512の不透明PNGで保存した。全ファイル300KB以下。
+
+- [配置の型紙](layout-guide.png)、[7枠・暗色背景](frames-dark.jpg)、[7枠・明色背景](frames-light.jpg)、[7種類の窓背景](windows.jpg)
+- 手札の左右端を含む比較は [390×844 左](hand-390.jpg)・[右](hand-end-390.jpg)、[360×640 左](hand-360.jpg)・[右](hand-end-360.jpg)
+- 図鑑一覧は [390×844](guide-390.jpg)・[360×640](guide-360.jpg)。世界樹のしずくの詳細は [390×844](detail-worldTreeDew-390.jpg)・[360×640](detail-worldTreeDew-360.jpg)
+- 長押しで開き、ポインターで傾けた7枠は [390×844](zoom-390.jpg)・[360×640](zoom-360.jpg)。上段が変更前、下段が変更後。[世界樹のしずくの拡大](zoom-worldTreeDew-390.jpg)も確認
+- 適応を含む合成候補は [390×844](fusion-390.jpg)・[360×640](fusion-360.jpg)
+- [3Dマップのデバッグ出力](relief-debug.jpg)は上段が高さ、下段が材質。名前と数値の紙面を紙領域に指定した
+
+コモンとレジェンドは初回に機能部品の位置と大きさがずれたため、各1回再生成。再生成でも数pxを超えるずれがあり、採用画像の装飾と材質を等比で処理し、機能部品を共通の座標で再構成した。残り5枠と窓背景は各1回の生成。枠外の薄いアルファを除去し、窓の透明領域とメダルの重なりをピクセルで確認した。
+
+実画面では手札の名前と数値の横幅を計測し、両画面寸法で枠内に収まることを確認した。360×640では数値用アイコンを小さくし、長いカード名には小さい文字と折り返しを適用した。
+
+`node --test` は332件すべて成功。実画面の `node ui-tests/smoke.js` と `node ui-tests/materials.js` も成功。PWAの配信一覧は468ファイル。
